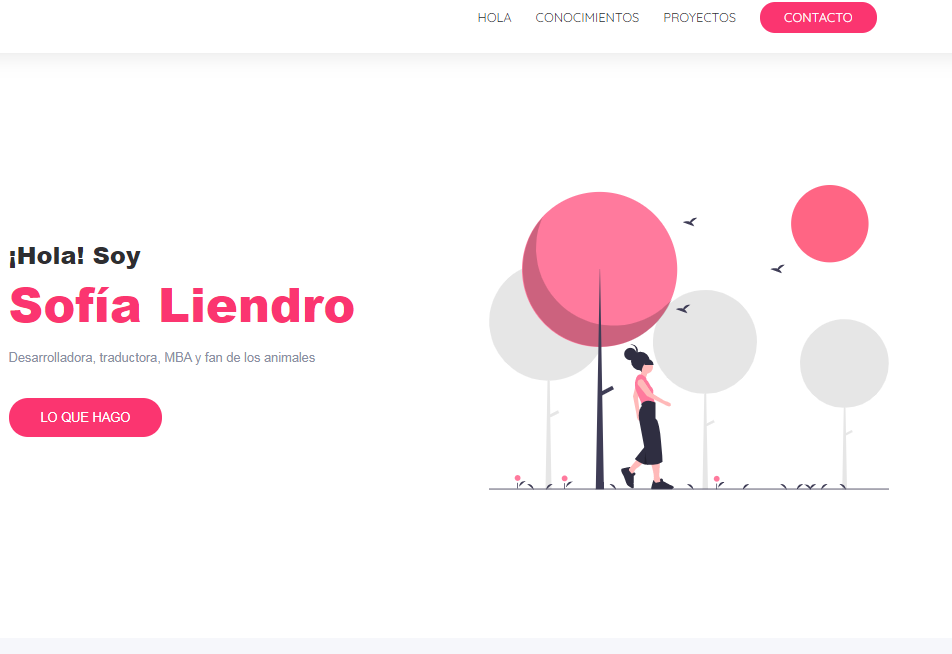
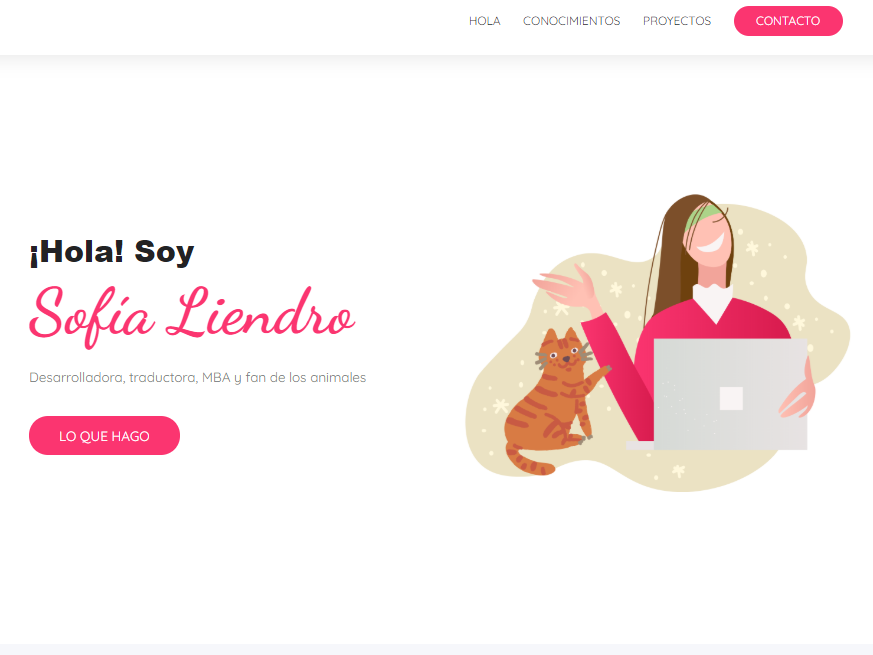
Agrego más responsive

Changed region(s): [[0.4948, 0.2752, 0.9897, 0.7645], [0.0, 0.367, 0.433, 0.7034], [0.4948, 0.0, 0.9897, 0.0612]]

diff --git a/TP-1.html b/TP-1.html
@@ -14,7 +14,7 @@
 
     <!-- Header -->
     <header>
-      <div class="columna">
+      <div class="header columna">
         <nav class="header-navegación">
           <ul class="menu-navegación">
             <li class="item-navegación">
@@ -47,7 +47,9 @@
           </p>
           <a href="#proyectos" class="botón">LO QUE HAGO</a>
         </div>
-        <img src="undraw_walking_outside_5ueb.svg" class="about-img">
+        <div>
+          <img src="download.png" class="about-img">
+        </div>
       </div>
     </section>
     <!-- Sobre mí -->
@@ -115,58 +117,52 @@
         </div>
         
         <div class="grilla proyectos">
-          <a href="#" target="_blank" class="project">
-            <figure>
-              <img src="screenshot_home.png" alt="" class="project-thumb">
-              <figcaption class="project-name">Portfolio</figcaption>
-            </figure>
+          <a href="" target="_blank" class="project">
+            <div>
+              <img src="screenshot_home.png">
+              <p class="project-name">Portfolio</p>
+            </div>
           </a>
 
-          <a href="#" target="_blank" class="project">
-            <figure>
-              <img src="undraw_add_to_cart_vkjp.svg" alt="" class="project-thumb">
-              <figcaption class="project-name">Tienda</figcaption>
-            </figure>
+          <a href="" target="_blank" class="project">
+            <div>
+              <img src="undraw_add_to_cart_vkjp.svg">
+              <p class="project-name">Tienda</p>
+            </div>
           </a>
-          <a href="#" target="_blank" class="project">
-            <figure>
-              <img src="undraw_gaming_6oy3.svg" alt="" class="project-thumb">
-              <figcaption class="project-name">Juego de la memoria</figcaption>
-            </figure>
-          </a>
-
-          <a href="#" target="_blank" class="project">
-            <figure>
-              <img src="undraw_revenue_3osh.svg" alt="" class="project-thumb">
-              <figcaption class="project-name">
-                Controlador de gastos
-              </figcaption>
-            </figure>
+          <a href="" target="_blank" class="project">
+            <div>
+              <img src="undraw_gaming_6oy3.svg">
+              <p class="project-name">Juego de la memoria</p>
+            </div>
           </a>
 
-          <a href="#" target="_blank" class="project">
-            <figure>
-              <img src="undraw_events_2p66.svg" alt="" class="project-thumb">
-              <figcaption class="project-name">
-                Administrador de reuniones
-              </figcaption>
-            </figure>
+          <a href="" target="_blank" class="project">
+            <div>
+              <img src="undraw_revenue_3osh.svg">
+              <p class="project-name">Controlador de gastos</p>
+            </div>
           </a>
 
-          <a href="#" target="_blank" class="project">
-            <figure>
-              <img src="undraw_wireframing_nxyi.svg" alt="" class="project-thumb">
-              <figcaption class="project-name">Todo app</figcaption>
-            </figure>
+          <a href="" target="_blank" class="project">
+            <div>
+              <img src="undraw_events_2p66.svg">
+              <p class="project-name">Administrador de reuniones</p>
+            </div>
           </a>
 
-          <a href="#" target="_blank" class="project">
-            <figure>
-              <img src="undraw_online_video_ivvq.svg" alt="" class="project-thumb">
-              <figcaption class="project-name">
-                Buscador de películas
-              </figcaption>
-            </figure>
+          <a href="" target="_blank" class="project">
+            <div>
+              <img src="undraw_wireframing_nxyi.svg">
+              <p class="project-name">Todo app</p>
+            </div>
+          </a>
+
+          <a href="" target="_blank" class="project">
+            <div>
+              <img src="undraw_online_video_ivvq.svg">
+              <p class="project-name">Buscador de películas</p>
+            </div>
           </a>
         </div>
       </div>
@@ -206,7 +202,7 @@
             <i class="fas fa-envelope footer-social-icon"></i></a>
         </li>
       </ul>
-      Hecho con ❤ por Sofía
+      <p class="última-frase-footer">Hecho con ❤ por Sofía</p>
     </footer>
     <!-- Footer -->
 

diff --git a/TP-1.css b/TP-1.css
@@ -21,7 +21,7 @@ html, body {
 }
 
 header {
-  background-color: rgb(248, 242, 242);
+  background-color: rgba(255, 255, 255, 0.966);
   padding: 25px 0;
   box-shadow: 0 0 29px 0 rgba(134, 134, 134, 0.25);
   display: flex;
@@ -89,7 +89,7 @@ li {
   text-align: -webkit-match-parent;
 }
 
-.fas fa-bars {
+.fas.fa-bars {
   display: none;
 }
 
@@ -223,7 +223,7 @@ h1, h2, h3, h4, form legend {
 }
 
 .about-img {
-  max-width: 500px;
+  width: 520px;
 }
 
 img {
@@ -264,6 +264,7 @@ h2, .text--xl {
 
 .grilla-habilidades {
   justify-content: center;
+  display: flex;
 }
 
 .grilla {
@@ -419,21 +420,6 @@ blockquote {
   overflow: hidden;
 }
 
-.project figure {
-  display: flex;
-  flex-direction: column;
-  justify-content: space-between;
-  height: 100%;
-}
-
-figure {
-  margin: 10px;
-}
-
-figcaption {
-  display: block;
-}
-
 .project-name {
   font-weight: 600;
   margin-bottom: 20px;
@@ -503,6 +489,11 @@ footer {
   content: "\f0e0";
 }
 
+.última-frase-footer {
+  font-family: 'Dancing Script';
+  font-size: 25px;
+}
+
 @media (max-width: 600px) {
   .footer-nav-menu, .filtro-programas {
     flex-direction: column;
@@ -513,8 +504,37 @@ footer {
     display: none;
   }
 
-  .fas fa-bars {
-    font-size: 100px;
+  .fas.fa-bars {
+    display: flex;
+    font-size: 30px;
+    margin: 10px;
+  }
+
+  .contenido-principal{
+    display: flex;
+    justify-content: center;
+    flex-wrap: wrap;
+    max-width: 600px;
+  }
+
+  .información-sobre-mí {
+    text-align: center;
+    margin: 30px;
+  }
+
+  .footer-nav {
+    display: none;
+  }
+
+  .header {
+    padding: 5px;
+  }
+
+  .about-img {
+    display: flex;
+    justify-content: center;
+    flex-wrap: wrap;
+    width: 100%;
   }
 
 }
